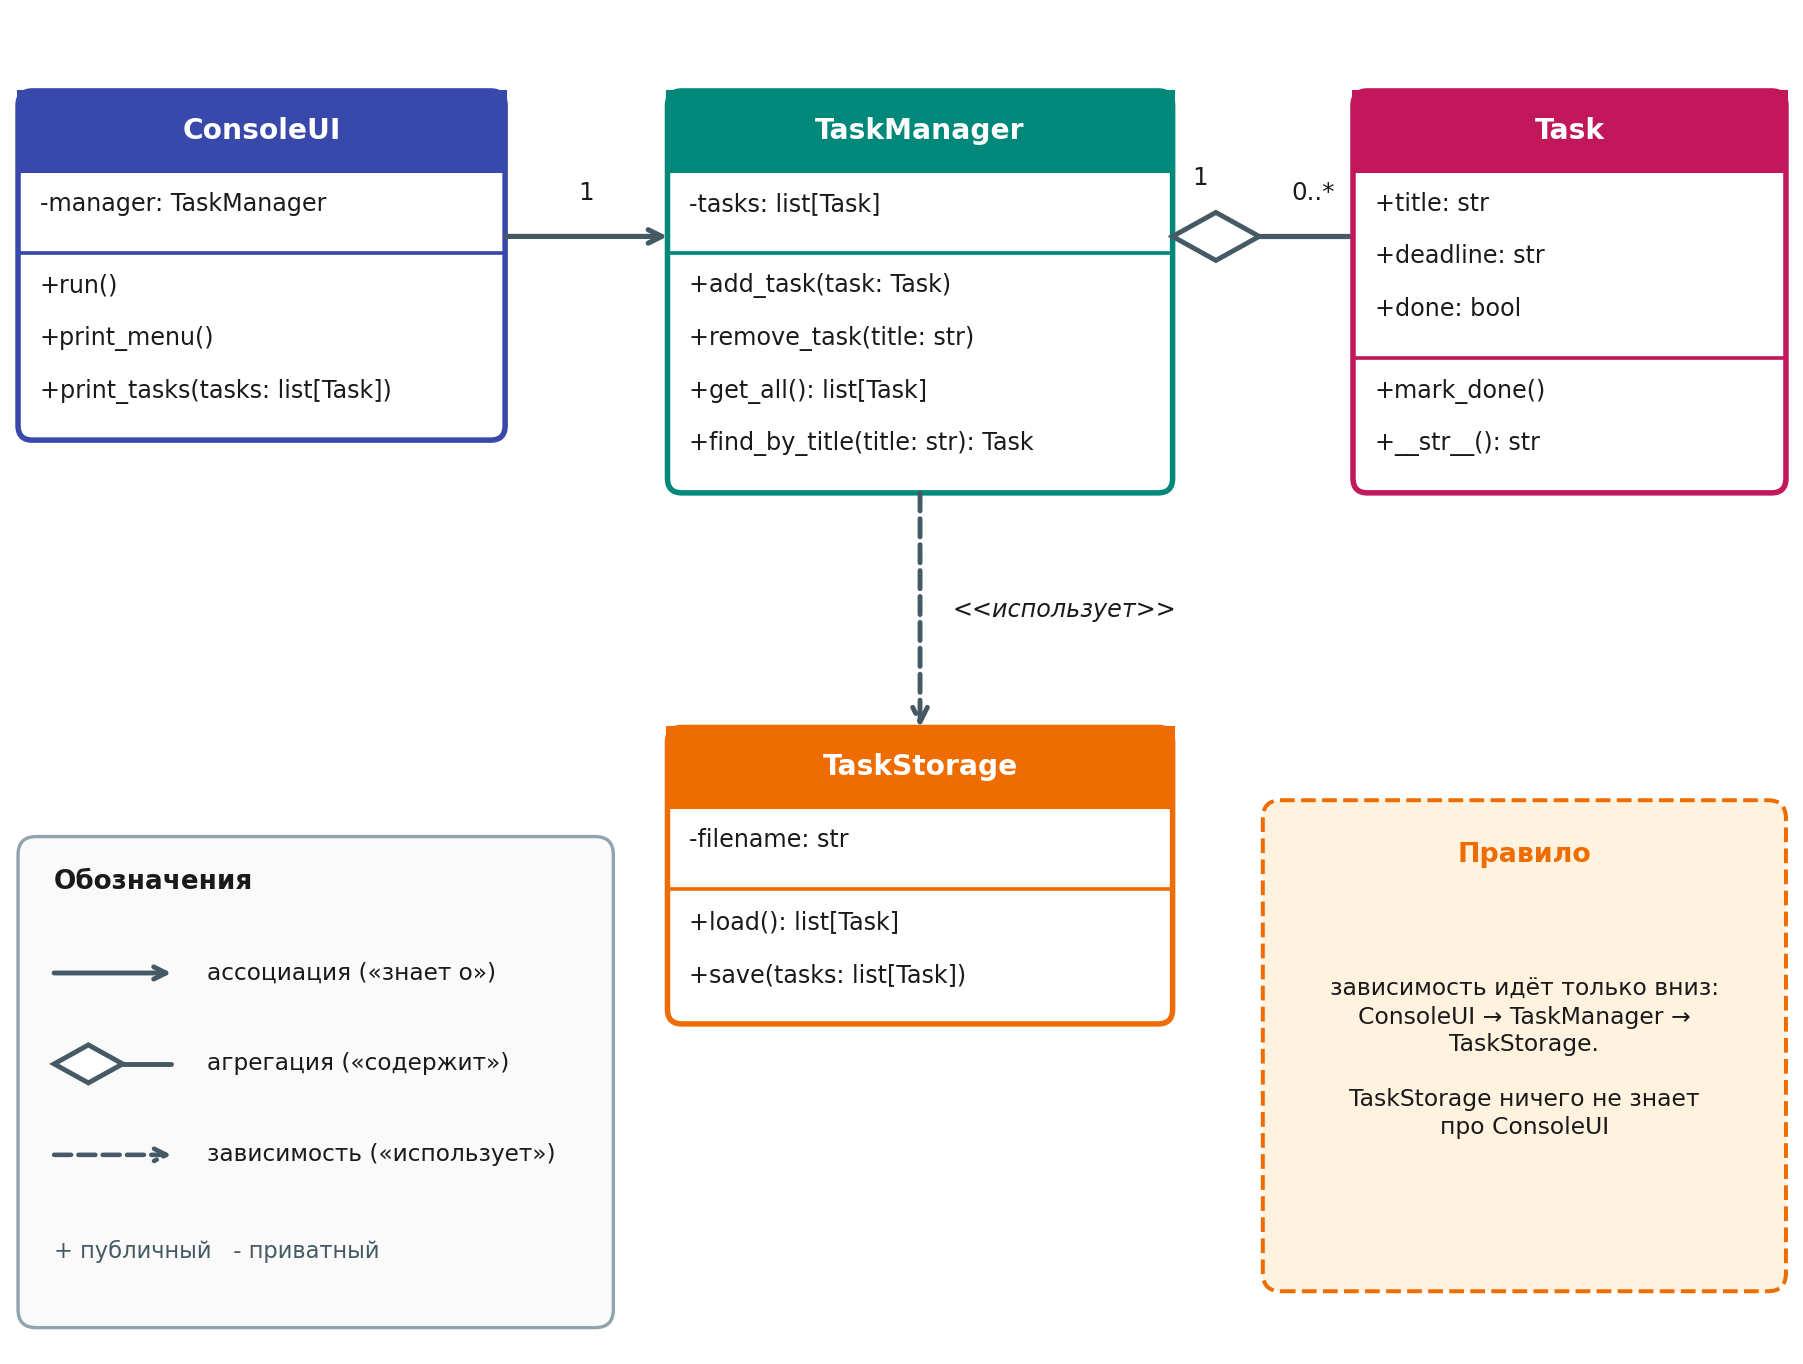
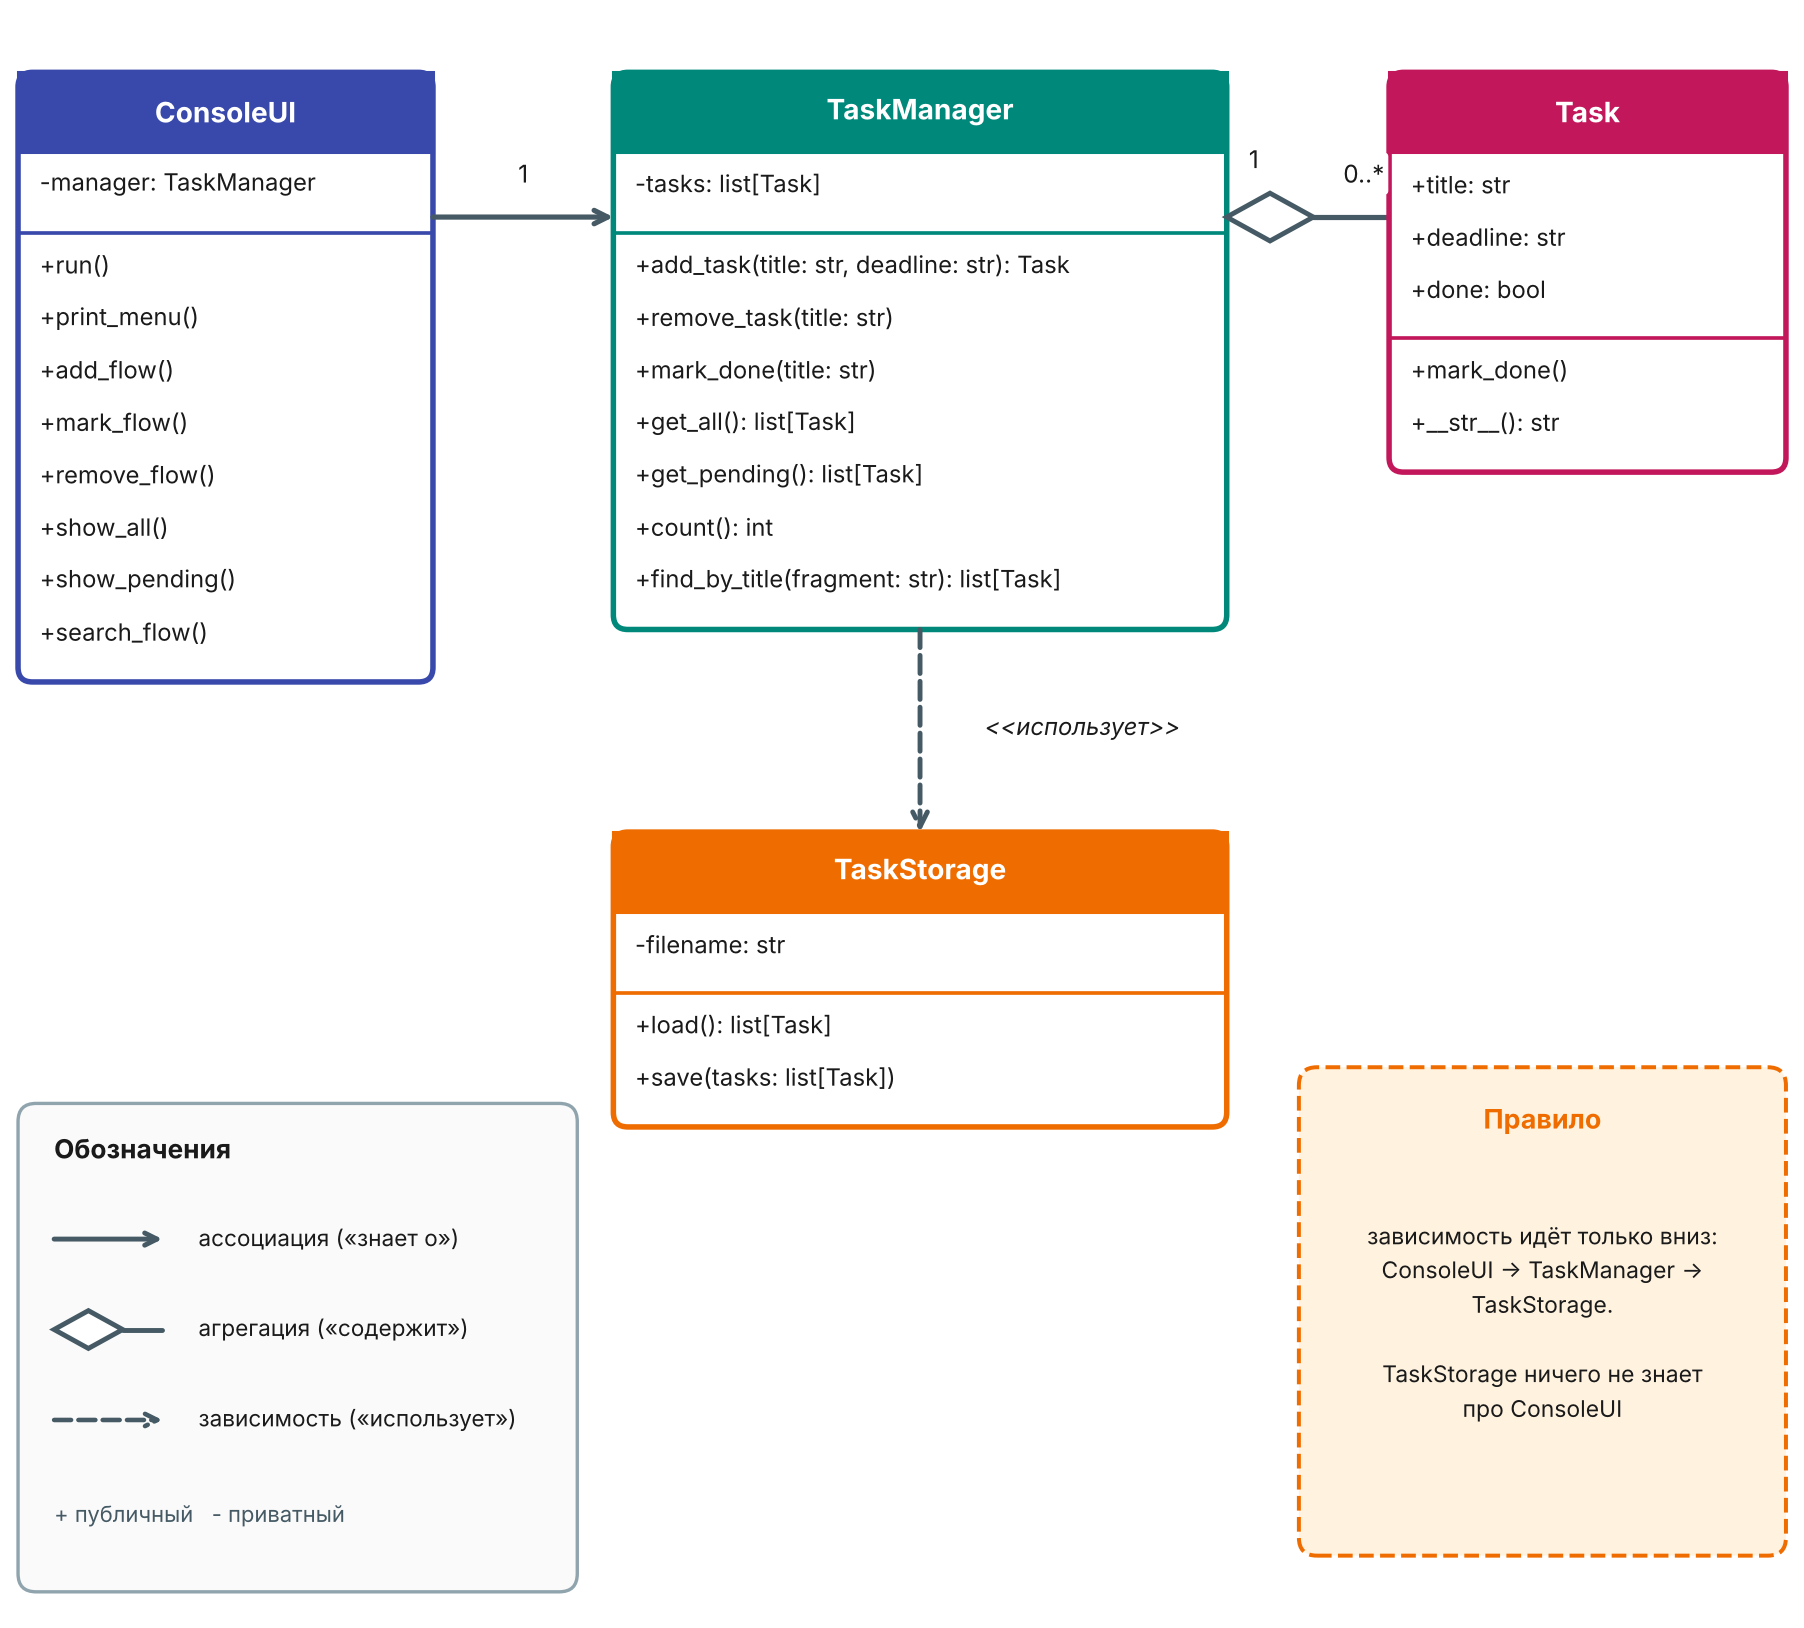
Update class diagram to match implementation

diff --git a/docs/classes.md b/docs/classes.md
@@ -4,22 +4,19 @@
 
 | Класс | Атрибуты | Методы | Назначение |
 |---|---|---|---|
-| Task | title: str, deadline: str, done: bool | mark_done(), __str__() | Одно дело: название, срок и статус. |
-| TaskManager | tasks: list[Task] | add_task(), remove_task(), get_all(), find_by_title() | Управление списком дел. |
-| TaskStorage | filename: str | load(), save() | Чтение и запись списка в файл. |
-| ConsoleUI | manager: TaskManager | run(), print_menu(), print_tasks() | Меню, ввод и вывод в консоли. |
+| Task | title: str, deadline: str, done: bool | mark_done(), __str__() | Одно дело: название, срок и статус. Название проверяется в конструкторе. |
+| TaskManager | tasks: list[Task] | add_task(), remove_task(), mark_done(), get_all(), get_pending(), count(), find_by_title() | Управление списком дел. |
+| TaskStorage | filename: str | load(), save() | Чтение и запись списка в файл (будет реализован позже). |
+| ConsoleUI | manager: TaskManager | run(), print_menu(), add_flow(), mark_flow(), remove_flow(), show_all(), show_pending(), search_flow() | Меню, ввод и вывод в консоли. |
 
 ## Связи
 - ConsoleUI → TaskManager: ассоциация. Интерфейс хранит ссылку на менеджера (поле manager) и обращается к нему.
-- TaskManager ◇— Task: агрегация, один менеджер содержит много дел (1 к 0..*). Дело существует как самостоятельный объект.
+- TaskManager ◇— Task: агрегация, один менеджер содержит много дел (1 к 0..*).
 - TaskManager ┄> TaskStorage: зависимость (пунктир). Менеджер использует хранилище при загрузке и сохранении, но не владеет им.
-- TaskStorage не связана с ConsoleUI: зависимость идёт только вниз (интерфейс → логика → хранение). Хранилище ничего не знает про интерфейс.
+- TaskStorage не связана с ConsoleUI: зависимость идёт только вниз (интерфейс → логика → хранение).
 
 ## Соответствие коду
-Класс Task в logic.py совпадает с диаграммой: поля title, deadline, done и методы mark_done(), __str__(). Остальные классы будут реализованы в следующих лабораторных работах. Если код меняется, диаграмму нужно обновить (и наоборот).
+Классы Task, TaskManager (logic.py) и ConsoleUI (ui.py) реализованы и совпадают с диаграммой по именам, параметрам и результатам методов. TaskStorage будет реализован в следующих лабораторных работах. Если код меняется, диаграмму нужно обновить (и наоборот).
 
-## Наследование хранилищ (звёздочка)
-На диаграмме class_diagram_storage.puml класс TaskStorage из основной диаграммы становится базовым классом Storage с методами load() и save(). От него наследуются два класса:
-- FileStorage: хранит список в файле (поле filename), это прежнее хранение в tasks.txt;
-- MemoryStorage: хранит список в оперативной памяти (поле data), удобно для тестов.
-TaskManager зависит только от базового класса Storage, поэтому способ хранения можно переключить, не меняя менеджер и интерфейс. Это задел на будущее.
+## Наследование хранилищ (задел на будущее)
+На диаграмме class_diagram_storage.puml класс TaskStorage становится базовым классом Storage с методами load() и save(). От него наследуются FileStorage (хранение в файле, поле filename) и MemoryStorage (хранение в памяти, поле data). TaskManager зависит только от Storage, поэтому способ хранения можно переключить, не меняя менеджер и интерфейс.
